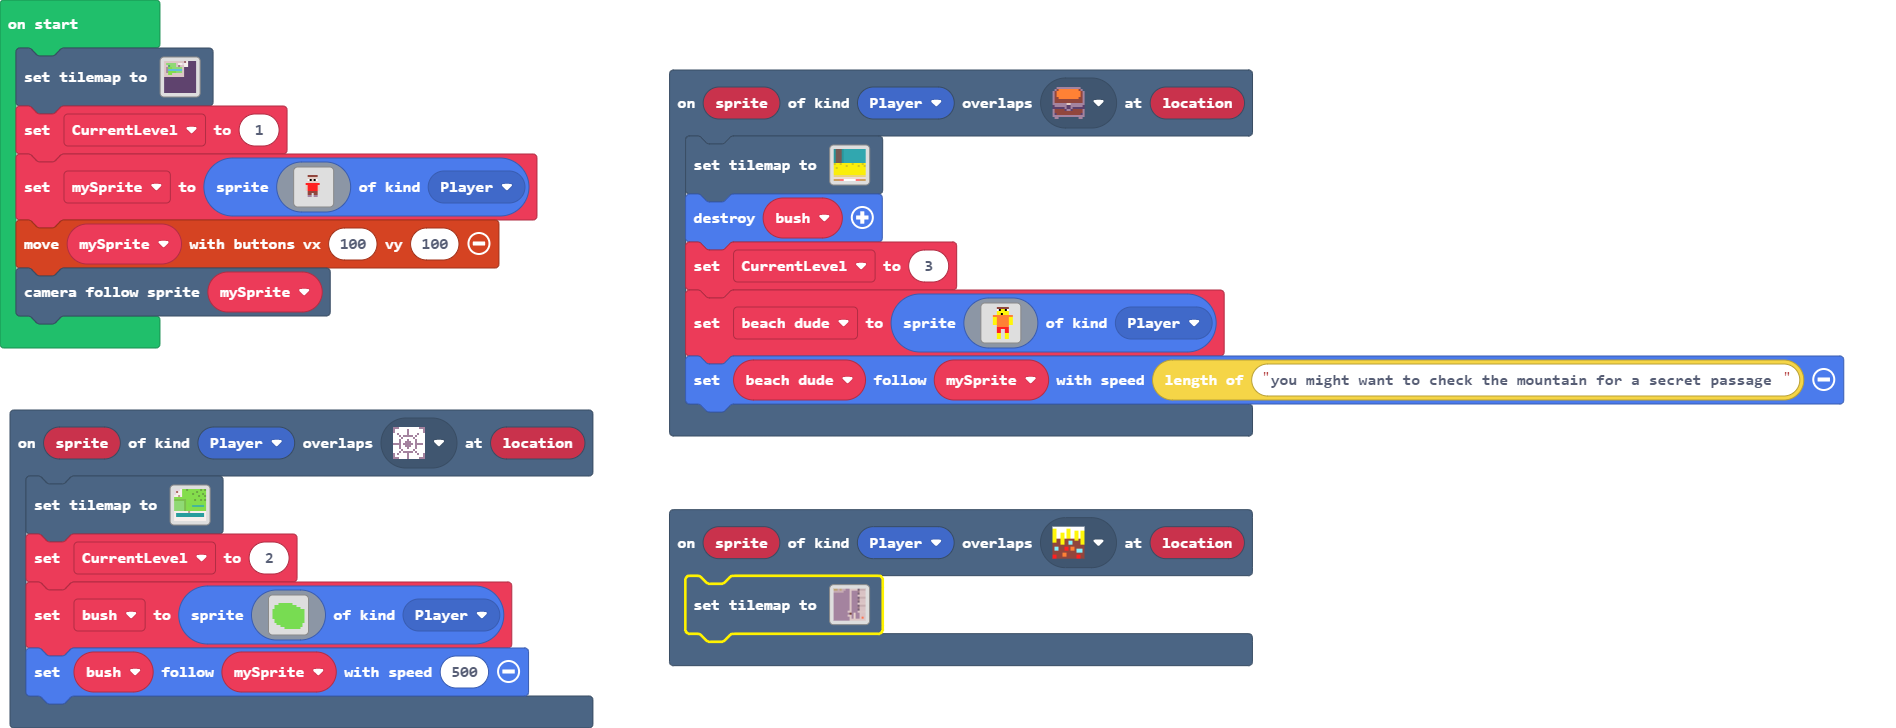
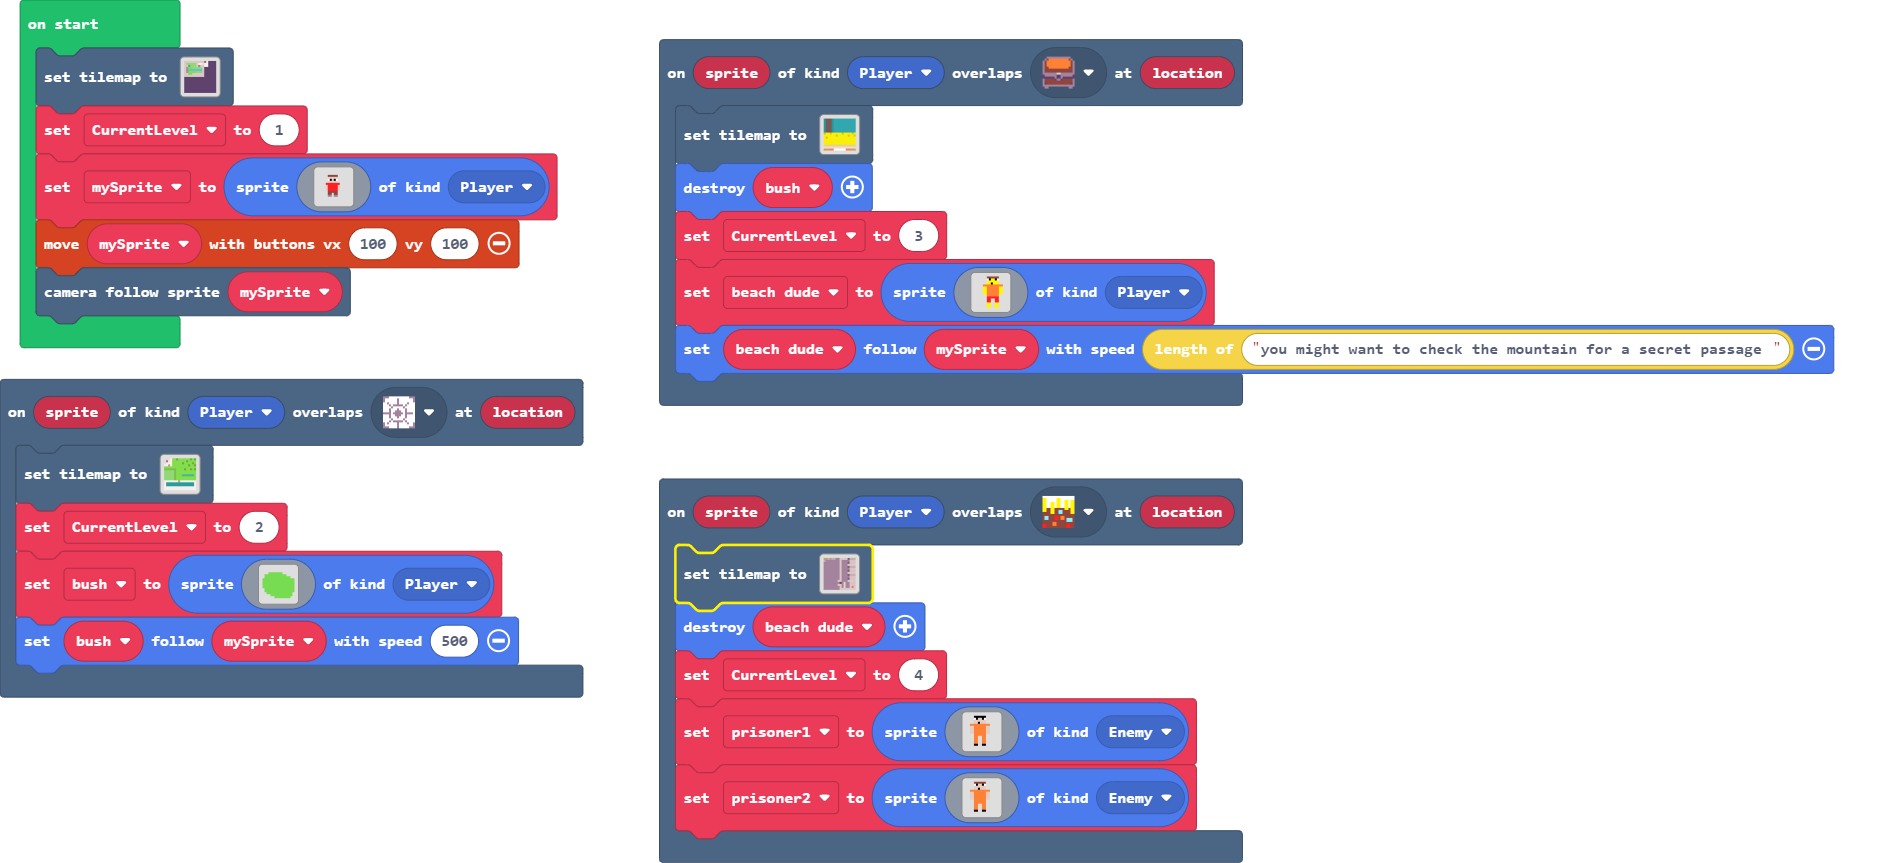
Update main.blocks, main.ts, images.g.jres, images.g.ts, tilemap.g.jres, tilemap.g.ts

diff --git a/tilemap.g.ts b/tilemap.g.ts
@@ -166,23 +166,23 @@ namespace myTiles {
 . . . . . . . . . . . . . . . . 
 `, [myTiles.transparency16,myTiles.tile12,myTiles.tile15,myTiles.tile16,myTiles.tile17,myTiles.tile18,myTiles.tile19,myTiles.tile20,myTiles.tile21,myTiles.tile22,myTiles.tile26,myTiles.tile28,myTiles.tile29], TileScale.Sixteen);
             case "level5":
[1 lines of base64/hex data omitted]
-2 2 2 2 2 2 . . 2 2 2 2 2 2 2 2 
-. . . . . . . . 2 . . . . . . 2 
-. . . . . . . . 2 . . . 2 . . 2 
-. . . . . . . . 2 . . . 2 2 2 2 
-. . . . . . . . 2 . . . 2 . . 2 
-. . . . . . . . 2 . . . . . . 2 
-. . . . . . . . 2 . . . 2 . . 2 
-. . . . . . . . 2 . . . 2 2 . 2 
-. . . . . . . . 2 . . . 2 . . 2 
-. . . . . . . . 2 . . . 2 . . 2 
-. . . . . . . . 2 . . . 2 . . 2 
-. . . . . . . 2 2 . . . 2 2 . 2 
-. . . . . . . . . . . . . 2 . 2 
-. . . . . . . 2 2 . . . . 2 . 2 
-. . . . . . . . 2 . . . . 2 . 2 
-. . . . . . . . 2 2 2 2 2 2 2 2 
[1 lines of base64/hex data omitted]
+2 2 2 2 2 2 2 2 2 2 2 2 2 2 2 2 
+2 . . . . . . . 2 . . . . . . 2 
+2 . . . . . . . 2 . . . 2 . . 2 
+2 . . . . . . . 2 . . . 2 2 2 2 
+2 . . . . . . . 2 . . . 2 . . 2 
+2 . . . . . . . 2 . . . . . . 2 
+2 . . . . . . . 2 . . . 2 . . 2 
+2 . . . . . . . 2 . . . 2 2 . 2 
+2 . . . . . . . 2 . . . 2 . . 2 
+2 . . . . . . . 2 . . . 2 . . 2 
+2 . . . . . . . 2 . . . 2 . . 2 
+2 . . . . . . 2 2 . . . 2 2 . 2 
+2 . . . . . . . . . 2 . . 2 . 2 
+2 . . . . . . 2 2 . 2 . . 2 . 2 
+2 . . . . . . . 2 . 2 . . 2 . 2 
+2 . . . . . . . 2 2 2 2 2 2 2 2 
 `, [myTiles.transparency16,myTiles.tile32,myTiles.tile36,myTiles.tile37,sprites.dungeon.floorLight0,sprites.dungeon.doorLockedEast,myTiles.tile38,sprites.dungeon.floorLight1,myTiles.tile41,sprites.dungeon.doorClosedWest,sprites.dungeon.collectibleRedCrystal,myTiles.tile42], TileScale.Sixteen);
         }
         return null;

diff --git a/main.ts b/main.ts
@@ -23,6 +23,44 @@ scene.onOverlapTile(SpriteKind.Player, assets.tile`tile4`, function (sprite, loc
 })
 scene.onOverlapTile(SpriteKind.Player, assets.tile`tile26`, function (sprite, location) {
     tiles.setTilemap(tilemap`level5`)
+    beach_dude.destroy()
+    CurrentLevel = 4
+    prisoner1 = sprites.create(img`
+        . . . . f f f f f f . . . . . . 
+        . . . . 1 f d d f 1 . . . . . . 
+        . . . . d d d d d d . . . . . . 
+        . . . . d d f d d d . . . . . . 
+        . . 4 4 4 4 4 4 4 4 4 4 . . . . 
+        . . d d 4 4 4 4 4 4 d d . . . . 
+        . . d d 4 4 4 4 4 4 d d . . . . 
+        . . d d 4 4 4 4 4 4 d d . . . . 
+        . . d d 4 4 4 4 4 4 d d . . . . 
+        . . . . 4 4 4 4 4 4 . . . . . . 
+        . . . . 4 4 . . 4 4 . . . . . . 
+        . . . . 4 4 . . 4 4 . . . . . . 
+        . . . . 4 4 . . 4 4 . . . . . . 
+        . . . . 4 4 . . 4 4 . . . . . . 
+        . . . . f f . . f f . . . . . . 
+        . . . . . . . . . . . . . . . . 
+        `, SpriteKind.Enemy)
+    prisoner2 = sprites.create(img`
+        . . . . e e e e e e . . . . . . 
+        . . . . 1 f d d f 1 . . . . . . 
+        . . . . d d d d d d . . . . . . 
+        . . . . d d f d d d . . . . . . 
+        . . 4 4 4 4 4 4 4 4 4 4 . . . . 
+        . . d d 4 4 4 4 4 4 d d . . . . 
+        . . d d 4 4 4 4 4 4 d d . . . . 
+        . . d d 4 4 4 4 4 4 d d . . . . 
+        . . d d 4 4 4 4 4 4 d d . . . . 
+        . . . . 4 4 4 4 4 4 . . . . . . 
+        . . . . 4 4 4 4 4 4 . . . . . . 
+        . . . . 4 4 . . 4 4 . . . . . . 
+        . . . . 4 4 . . 4 4 . . . . . . 
+        . . . . 4 4 . . 4 4 . . . . . . 
+        . . . . f f . . f f . . . . . . 
+        . . . . . . . . . . . . . . . . 
+        `, SpriteKind.Enemy)
 })
 scene.onOverlapTile(SpriteKind.Player, sprites.dungeon.chestClosed, function (sprite, location) {
     tiles.setTilemap(tilemap`level4`)
@@ -48,6 +86,8 @@ scene.onOverlapTile(SpriteKind.Player, sprites.dungeon.chestClosed, function (sp
         `, SpriteKind.Player)
     beach_dude.follow(mySprite, "you might want to check the mountain for a secret passage ".length)
 })
+let prisoner2: Sprite = null
+let prisoner1: Sprite = null
 let beach_dude: Sprite = null
 let bush: Sprite = null
 let mySprite: Sprite = null

diff --git a/images.g.ts b/images.g.ts
@@ -57,6 +57,42 @@ namespace myImages {
 . . . . . . 5 5 . . 5 5 . . . . 
 . . . . . . 5 5 . . 5 5 . . . . 
 `;
+            case "image4":return img`
+. . . . e e e e e e . . . . . . 
+. . . . 1 f d d f 1 . . . . . . 
+. . . . d d d d d d . . . . . . 
+. . . . d d f d d d . . . . . . 
+. . 4 4 4 4 4 4 4 4 4 4 . . . . 
+. . d d 4 4 4 4 4 4 d d . . . . 
+. . d d 4 4 4 4 4 4 d d . . . . 
+. . d d 4 4 4 4 4 4 d d . . . . 
+. . d d 4 4 4 4 4 4 d d . . . . 
+. . . . 4 4 4 4 4 4 . . . . . . 
+. . . . 4 4 4 4 4 4 . . . . . . 
+. . . . 4 4 . . 4 4 . . . . . . 
+. . . . 4 4 . . 4 4 . . . . . . 
+. . . . 4 4 . . 4 4 . . . . . . 
+. . . . f f . . f f . . . . . . 
+. . . . . . . . . . . . . . . . 
+`;
+            case "image5":return img`
+. . . . f f f f f f . . . . . . 
+. . . . 1 f d d f 1 . . . . . . 
+. . . . d d d d d d . . . . . . 
+. . . . d d f d d d . . . . . . 
+. . 4 4 4 4 4 4 4 4 4 4 . . . . 
+. . d d 4 4 4 4 4 4 d d . . . . 
+. . d d 4 4 4 4 4 4 d d . . . . 
+. . d d 4 4 4 4 4 4 d d . . . . 
+. . d d 4 4 4 4 4 4 d d . . . . 
+. . . . 4 4 4 4 4 4 . . . . . . 
+. . . . 4 4 . . 4 4 . . . . . . 
+. . . . 4 4 . . 4 4 . . . . . . 
+. . . . 4 4 . . 4 4 . . . . . . 
+. . . . 4 4 . . 4 4 . . . . . . 
+. . . . f f . . f f . . . . . . 
+. . . . . . . . . . . . . . . . 
+`;
         }
         return null;
     })
